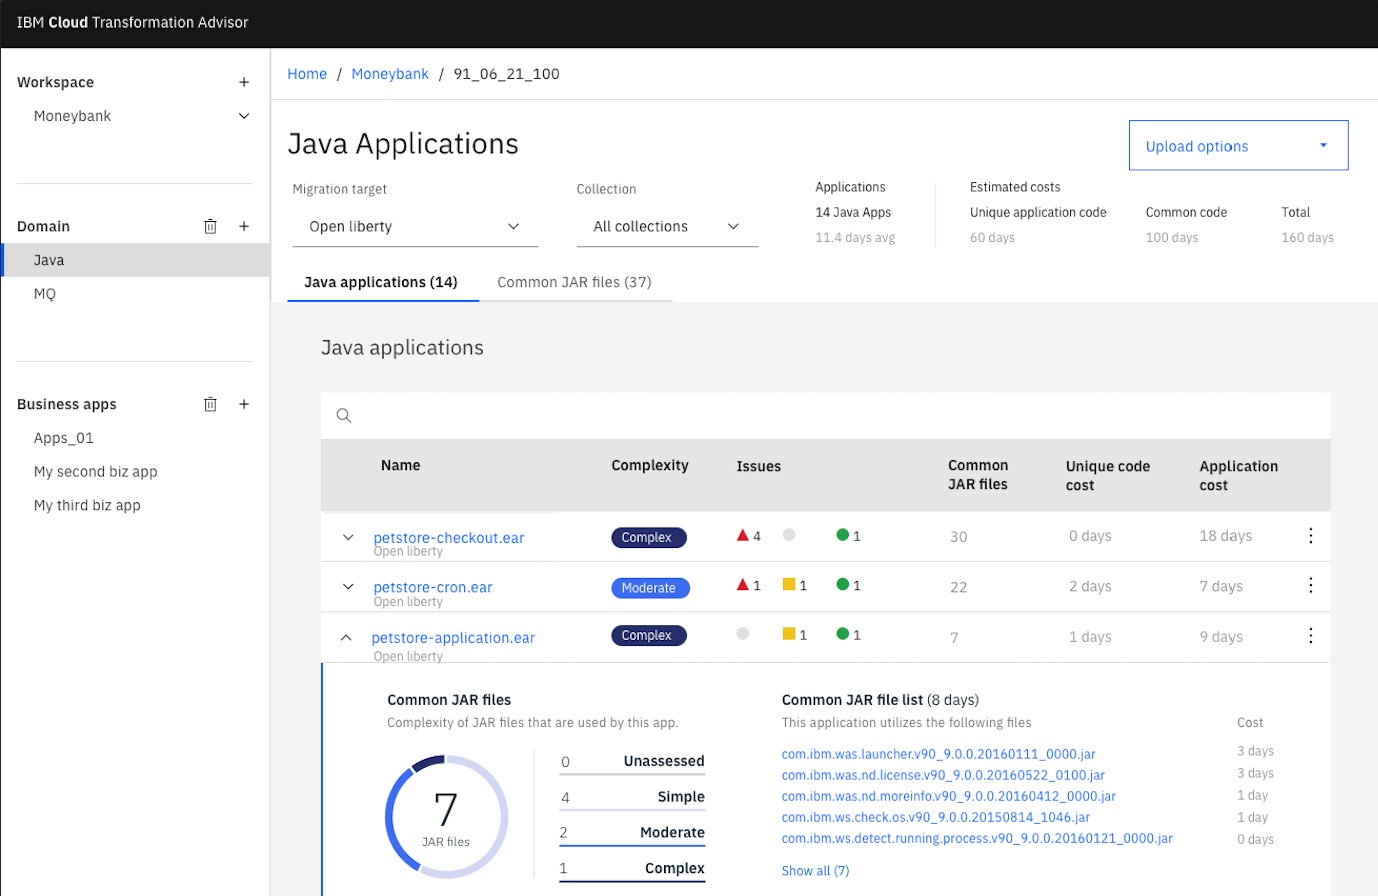
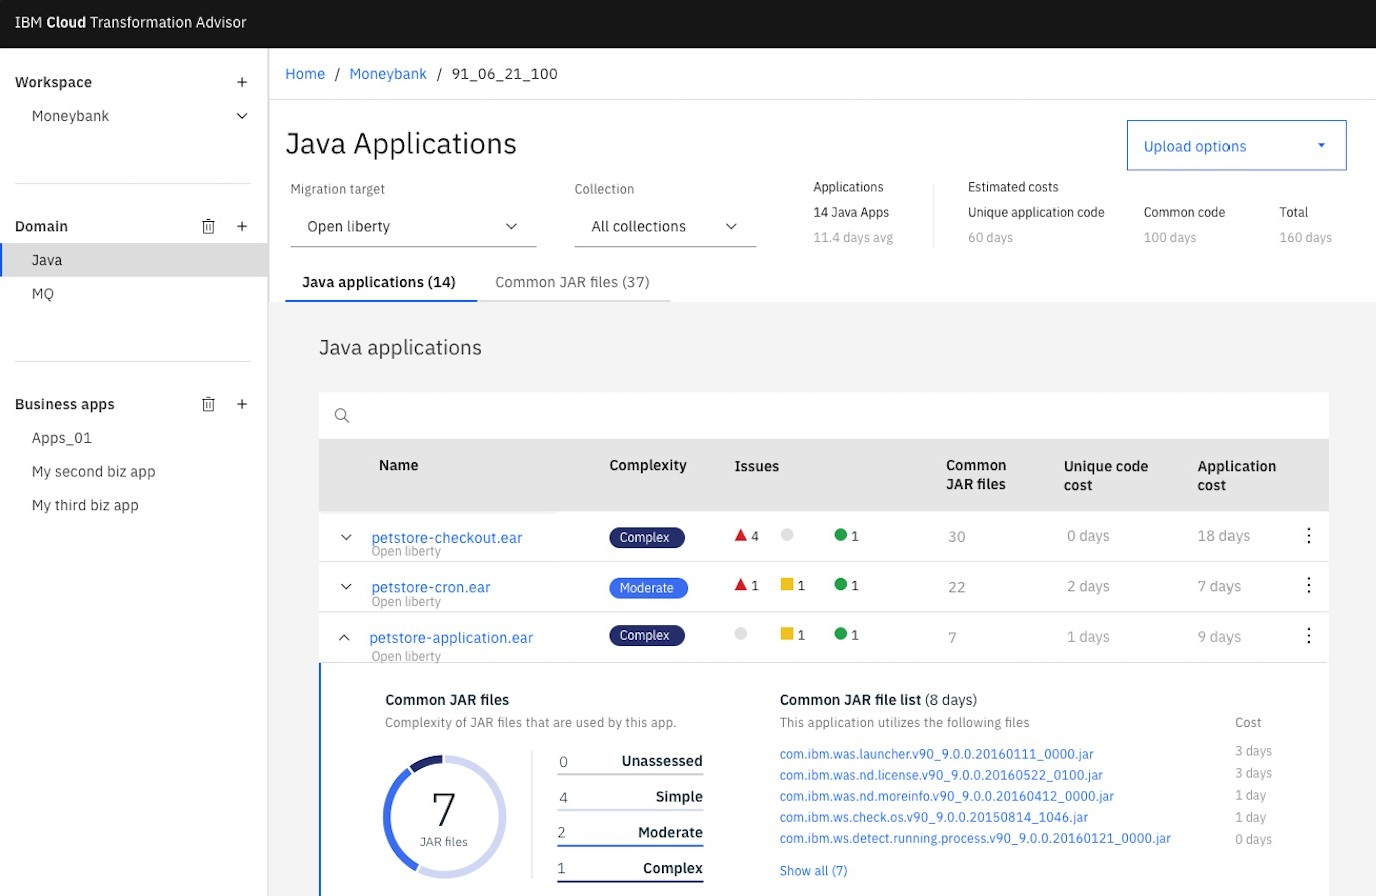
Polish homepage work grid and project dates
- Mobile: make featured Rownd card the hero (3/2) instead of a thin
  32/9 sliver; keep card titles always visible via a bottom gradient
  (no hover on touch)
- Add date subtitles to all project cards (Rownd 2021–2025, Watson
  2021, Transformation Advisor 2020–2021, Trusted Identity 2018–2019,
  Blockchain 2018–2021)
- Rename bottom nav links "Rownd" -> "Rownd Authentication"
- Trim 2px off transformation-advisor image to remove a stray edge line

diff --git a/src/components/Work.jsx b/src/components/Work.jsx
@@ -4,7 +4,7 @@ import './Work.css';
 const featuredProject = {
   id: 0,
   title: 'Rownd authentication',
-  subtitle: 'Designing and Scaling Authentication',
+  subtitle: '2021–2025',
   image: '/images/rownd/homepage-rownd.png',
   link: '/work/rownd',
 };
@@ -13,24 +13,28 @@ const projects = [
   {
     id: 1,
     title: 'IBM Watson Orchestrate',
+    subtitle: '2021',
     image: '/images/Watson-Orchestrate-Explainer-5E-Desktop.webp',
     link: '/work/watson-orchestrate',
   },
   {
     id: 2,
     title: 'IBM Transformation Advisor',
+    subtitle: '2020–2021',
     image: '/images/transformation-advisor.jpg',
     link: '/work/transformation-advisor',
   },
   {
     id: 3,
     title: 'IBM Trusted Identity',
+    subtitle: '2018–2019',
     image: '/images/trusted-identity.jpg',
     link: '/work/trusted-identity',
   },
   {
     id: 4,
     title: 'IBM Blockchain Platform',
+    subtitle: '2018–2021',
     image: '/images/blockchain-platform.png',
     link: '/work/blockchain-platform',
   },
@@ -67,7 +71,10 @@ function Work() {
                 style={{ backgroundImage: `url(${project.image})` }}
               />
               <div className="project-overlay">
-                <h3 className="project-title script-font">{project.title}</h3>
+                <div className="project-title-group">
+                  <h3 className="project-title script-font">{project.title}</h3>
+                  <p className="project-subtitle">{project.subtitle}</p>
+                </div>
               </div>
             </div>
           </Link>

diff --git a/src/components/Work.css b/src/components/Work.css
@@ -46,7 +46,12 @@
   left: 0;
   width: 100%;
   height: 100%;
-  background: rgba(0, 0, 0, 0.5);
+  background: linear-gradient(
+    to top,
+    rgba(0, 0, 0, 0.7) 0%,
+    rgba(0, 0, 0, 0.3) 40%,
+    rgba(0, 0, 0, 0) 75%
+  );
   display: flex;
   align-items: flex-end;
   padding: 20px;
@@ -95,6 +100,18 @@
   .projects-grid {
     grid-template-columns: 1fr;
     gap: 15px;
+  }
+
+  /* Featured Rownd card: make it the tallest/hero card on mobile
+     instead of a thin 32/9 sliver */
+  .project-card-featured {
+    aspect-ratio: 3 / 2;
+  }
+
+  /* Touch devices have no hover — keep titles always visible
+     (reuses the purple gradient from the base overlay) */
+  .project-overlay {
+    opacity: 1;
   }
 
   .work-title {

diff --git a/src/pages/BlockchainPlatform.jsx b/src/pages/BlockchainPlatform.jsx
@@ -301,7 +301,7 @@ function BlockchainPlatform() {
       {/* Project Navigation */}
       <ProjectNavigation
         prevProject={{ name: 'IBM Trusted Identity', path: '/work/trusted-identity' }}
-        nextProject={{ name: 'Rownd', path: '/work/rownd' }}
+        nextProject={{ name: 'Rownd Authentication', path: '/work/rownd' }}
       />
 
       <CaseStudyFooter />

diff --git a/src/pages/WatsonOrchestrate.jsx b/src/pages/WatsonOrchestrate.jsx
@@ -243,7 +243,7 @@ function WatsonOrchestrate() {
 
       {/* Project Navigation */}
       <ProjectNavigation
-        prevProject={{ name: 'Rownd', path: '/work/rownd' }}
+        prevProject={{ name: 'Rownd Authentication', path: '/work/rownd' }}
         nextProject={{ name: 'IBM Transformation Advisor', path: '/work/transformation-advisor' }}
       />
 
